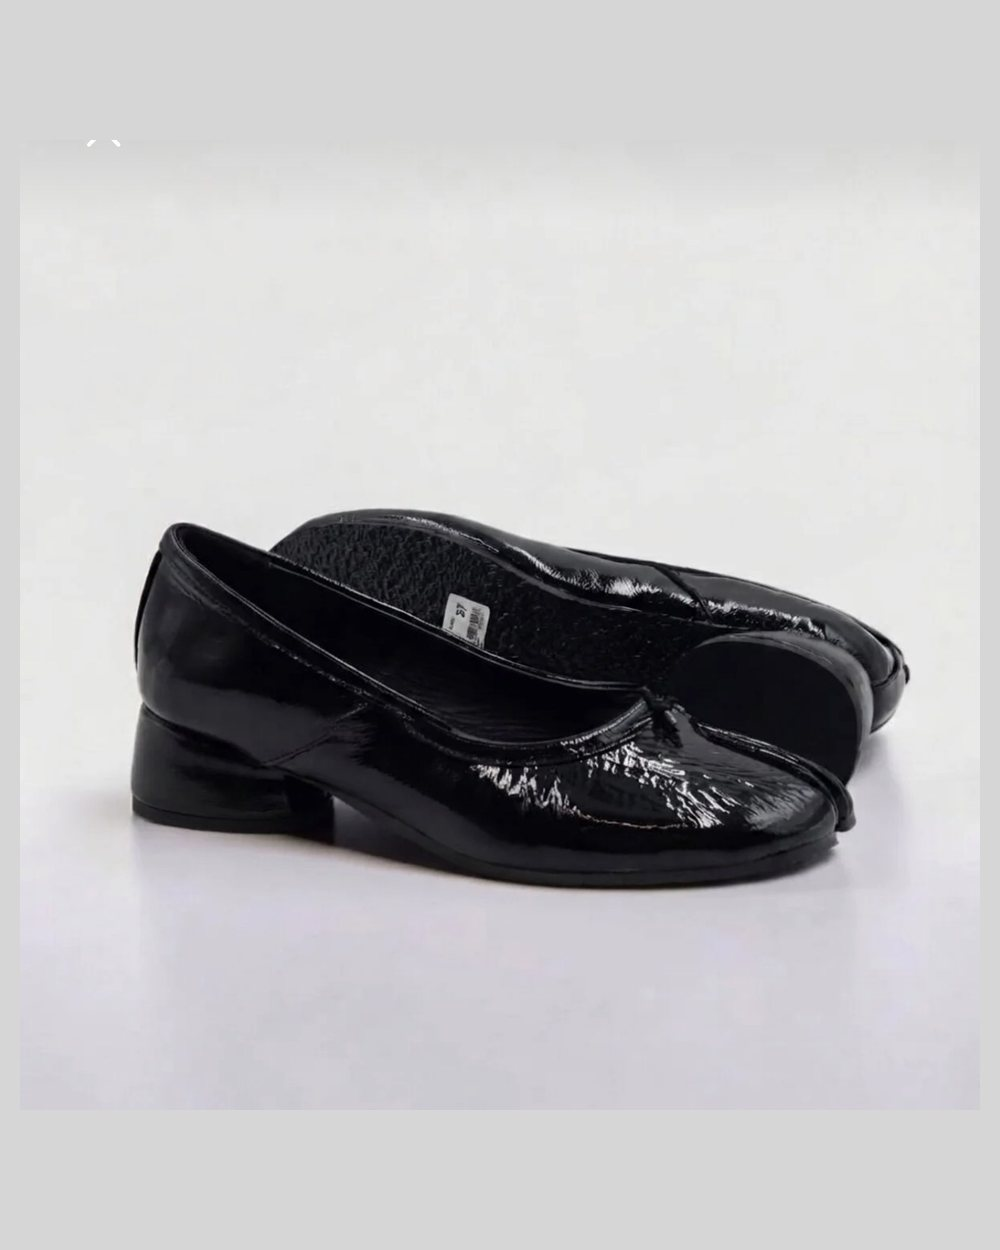
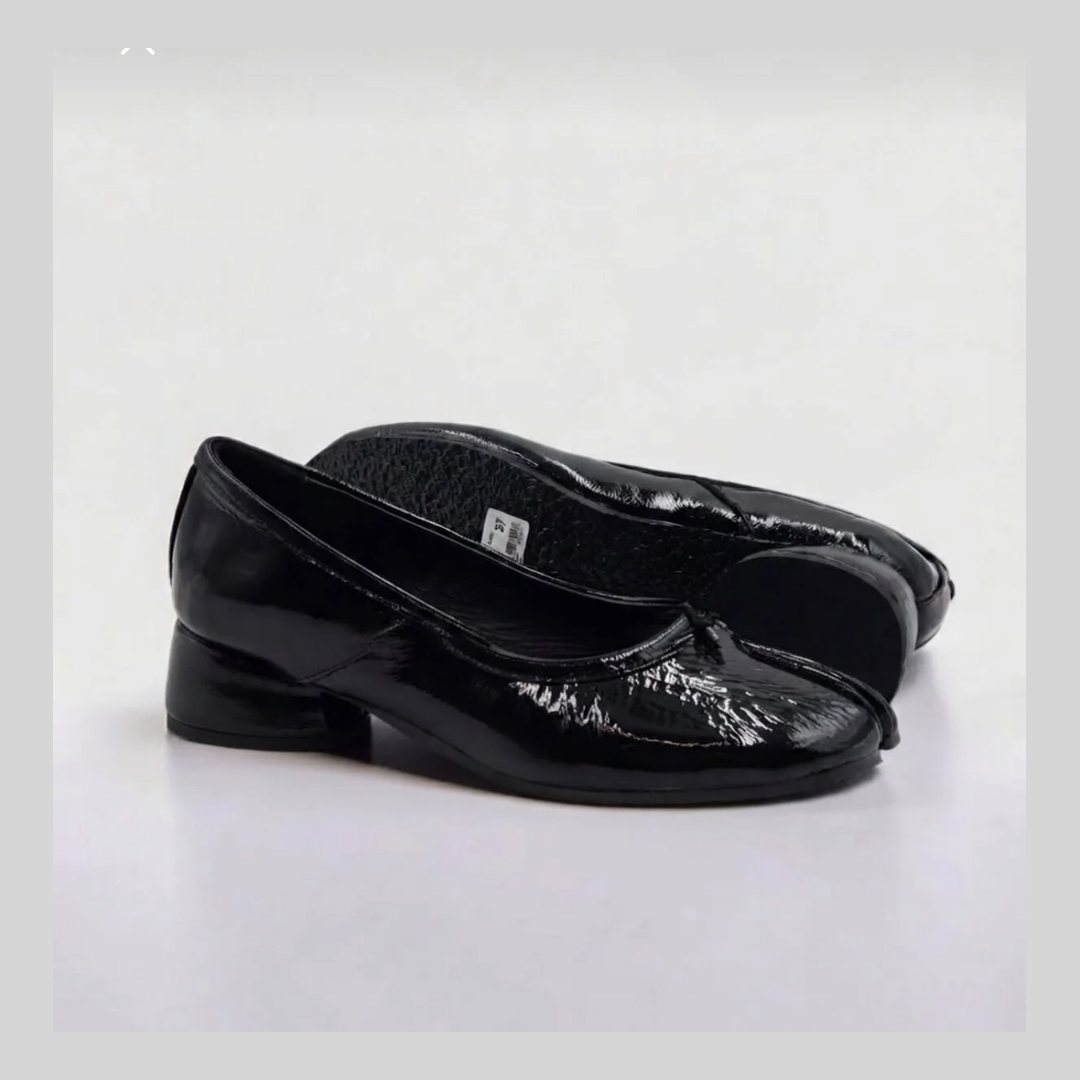
Produktbilder auf 1080x1080 umgestellt

Changed region(s): [[0.093, 0.3667, 0.93, 0.7639], [0.31, 0.5194, 0.434, 0.5806], [0.279, 0.55, 0.31, 0.5806]]

diff --git a/index.html b/index.html
@@ -85,7 +85,7 @@ button{font:inherit; color:inherit; background:none; border:0; cursor:pointer}
 .btn--ghost{border-color:var(--line); color:var(--ink-soft)}
 .btn--ghost:hover{border-color:var(--ink); color:var(--ink)}
 .hero__fig{position:relative; background:var(--plate); border:1px solid var(--line-soft)}
-.hero__fig img{width:100%; aspect-ratio:4/5; object-fit:cover; max-width:100%}
+.hero__fig img{width:100%; aspect-ratio:1/1; object-fit:cover; max-width:100%}
 .hero__tag{position:absolute; left:0; bottom:0; background:var(--surface); border-top:1px solid var(--line-soft); border-right:1px solid var(--line-soft); padding:9px 16px; font-family:var(--mono); font-size:10.5px; letter-spacing:.16em; text-transform:uppercase; color:var(--muted)}
 @media(max-width:860px){ .hero{grid-template-columns:1fr; align-items:start} .hero__fig{order:-1} }
 
@@ -117,7 +117,7 @@ button{font:inherit; color:inherit; background:none; border:0; cursor:pointer}
 @media(max-width:420px){ .grid{grid-template-columns:1fr} }
 .card{display:flex; flex-direction:column; text-align:left; width:100%; padding:0; background:none}
 .card__fig{position:relative; overflow:hidden; background:var(--plate); border:1px solid var(--line-soft)}
-.card__fig img{width:100%; aspect-ratio:4/5; object-fit:cover; transition:transform .5s cubic-bezier(.2,.7,.3,1), opacity .3s ease}
+.card__fig img{width:100%; aspect-ratio:1/1; object-fit:cover; transition:transform .5s cubic-bezier(.2,.7,.3,1), opacity .3s ease}
 .card__fig img + img{position:absolute; inset:0; opacity:0}
 .card:hover .card__fig img{transform:scale(1.03)}
 .card:hover .card__fig img + img{opacity:1}
@@ -191,11 +191,11 @@ tbody tr:last-child td{border-bottom:0}
 .ov__grid{display:grid; grid-template-columns:1fr 1fr; gap:clamp(20px,3vw,40px); clear:both}
 @media(max-width:820px){ .ov__grid{grid-template-columns:1fr} }
 .ov__main{background:var(--plate); border:1px solid var(--line-soft)}
-.ov__main img{width:100%; aspect-ratio:4/5; object-fit:cover}
+.ov__main img{width:100%; aspect-ratio:1/1; object-fit:cover}
 .ov__thumbs{display:flex; gap:8px; margin-top:8px}
 .ov__thumbs button{flex:0 0 74px; border:1px solid var(--line-soft); background:var(--plate); padding:0}
 .ov__thumbs button[aria-current="true"]{border-color:var(--ink)}
-.ov__thumbs img{width:100%; aspect-ratio:4/5; object-fit:cover}
+.ov__thumbs img{width:100%; aspect-ratio:1/1; object-fit:cover}
 .ov h3{font-family:var(--display); font-size:clamp(26px,3.2vw,36px); line-height:1.08; margin-top:6px}
 .ov__price{font-family:var(--mono); font-size:15px; margin-top:12px}
 .ov__price small{color:var(--muted); font-size:11px; letter-spacing:.1em; margin-left:8px}
@@ -238,7 +238,7 @@ tbody tr:last-child td{border-bottom:0}
       </div>
     </div>
     <figure class="hero__fig" style="margin:0">
-      <img src="img/noir-verni-1.jpg" alt="Schwarzer Lackleder-Ballerina mit geteilter Zehenpartie und Blockabsatz" width="1000" height="1250">
+      <img src="img/noir-verni-1.jpg" alt="Schwarzer Lackleder-Ballerina mit geteilter Zehenpartie und Blockabsatz" width="1080" height="1080">
       <figcaption class="hero__tag">Noir Verni · Lackleder · Absatz 3,5 cm</figcaption>
     </figure>
   </section>
@@ -406,10 +406,10 @@ var gEl = document.getElementById("grid");
 function render(){
   var list = P.filter(function(p){ return state==="all" || p.cat===state; });
   gEl.innerHTML = list.map(function(p){
-    var second = p.imgs>1 ? '<img src="img/'+p.slug+'-2.jpg" alt="" aria-hidden="true" loading="lazy" width="1000" height="1250">' : '';
+    var second = p.imgs>1 ? '<img src="img/'+p.slug+'-2.jpg" alt="" aria-hidden="true" loading="lazy" width="1080" height="1080">' : '';
     return '<button class="card" data-slug="'+p.slug+'">'+
       '<span class="card__fig"><span class="card__badge">'+p.catLabel+'</span>'+
-      '<img src="img/'+p.slug+'-1.jpg" alt="'+esc(p.name)+' — '+esc(p.sub)+'" loading="lazy" width="1000" height="1250">'+second+'</span>'+
+      '<img src="img/'+p.slug+'-1.jpg" alt="'+esc(p.name)+' — '+esc(p.sub)+'" loading="lazy" width="1080" height="1080">'+second+'</span>'+
       '<span class="card__body"><span><span class="card__name">'+p.name+'</span>'+
       '<span class="card__sub">'+p.sub+'</span></span>'+
       '<span class="card__price">'+euro(p.price)+'</span></span></button>';
@@ -481,7 +481,7 @@ function open(slug){
   var thumbs = "";
   for(var i=1;i<=p.imgs;i++){
     thumbs += '<button data-i="'+i+'" aria-current="'+(i===1)+'" aria-label="Ansicht '+i+'">'+
-      '<img src="img/'+p.slug+'-'+i+'.jpg" alt="" width="1000" height="1250"></button>';
+      '<img src="img/'+p.slug+'-'+i+'.jpg" alt="" width="1080" height="1080"></button>';
   }
   var sizes = t.rows.map(function(r){ return '<span class="pill">'+r[0]+'</span>'; }).join("");
   ov = document.createElement("div");
@@ -492,7 +492,7 @@ function open(slug){
   ov.innerHTML = '<div class="ov__panel">'+
     '<button class="ov__close" id="ovclose">Schließen ✕</button>'+
     '<div class="ov__grid">'+
-      '<div><div class="ov__main"><img id="ovmain" src="img/'+p.slug+'-1.jpg" alt="'+esc(p.name)+'" width="1000" height="1250"></div>'+
+      '<div><div class="ov__main"><img id="ovmain" src="img/'+p.slug+'-1.jpg" alt="'+esc(p.name)+'" width="1080" height="1080"></div>'+
       '<div class="ov__thumbs">'+thumbs+'</div></div>'+
       '<div>'+
         '<p class="eyebrow">'+p.catLabel+' · Geteilte Zehenpartie</p>'+
